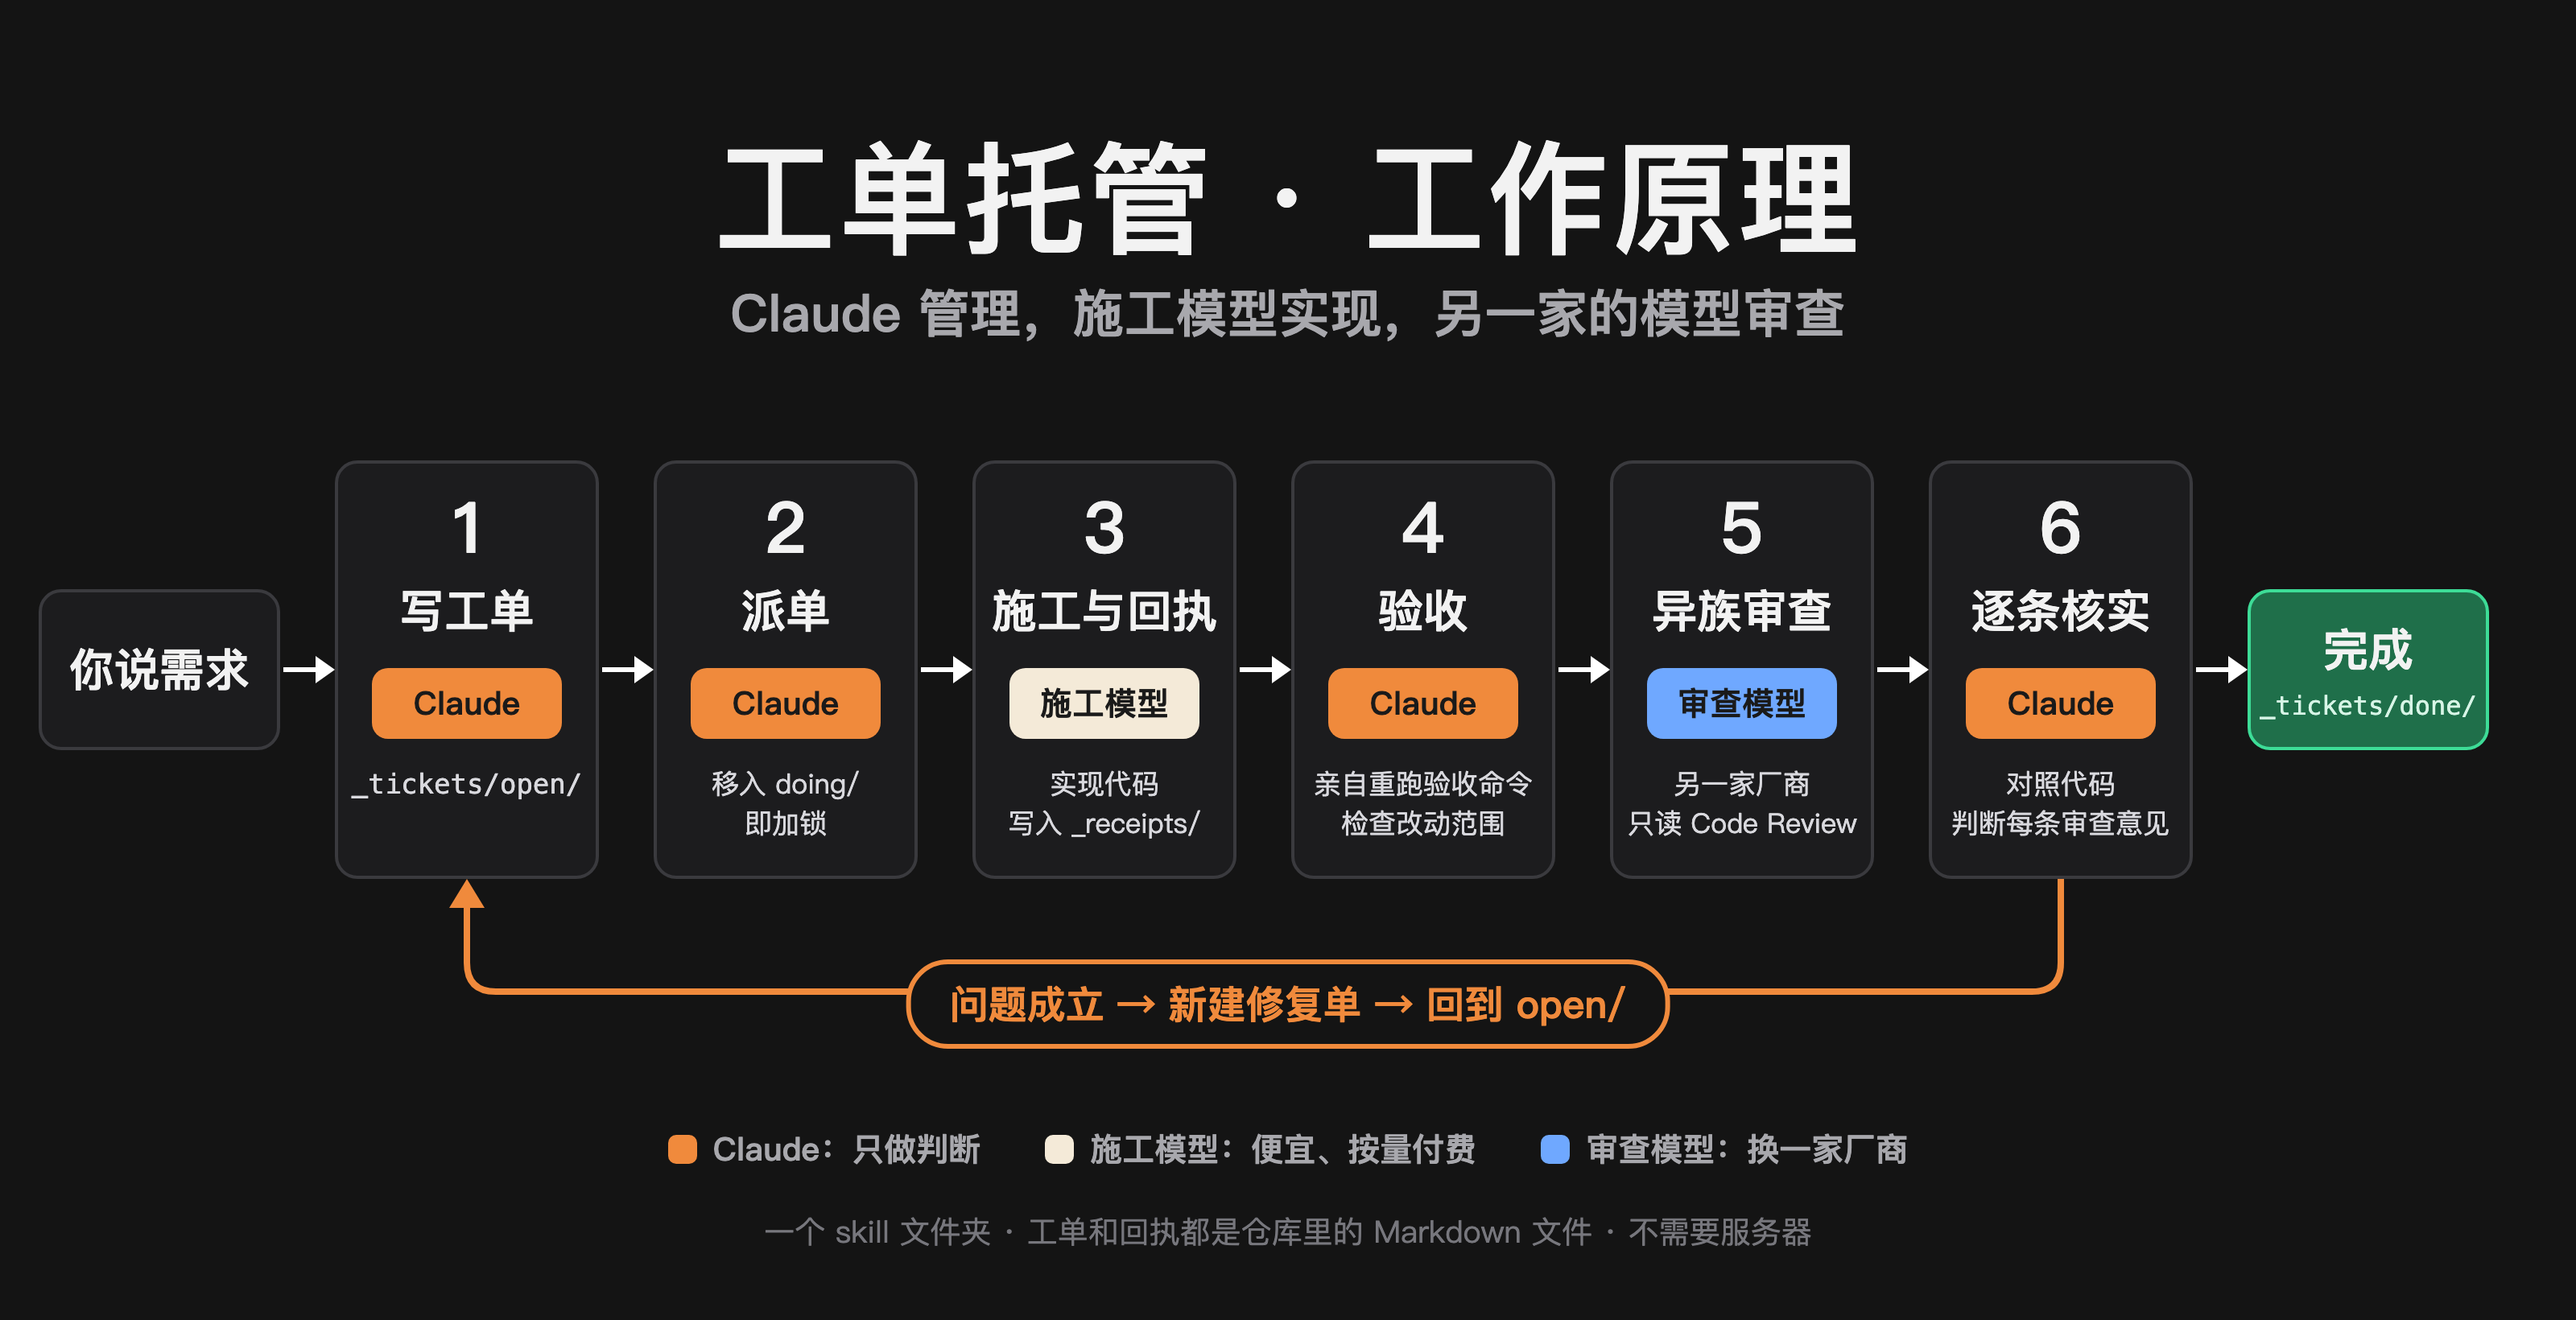
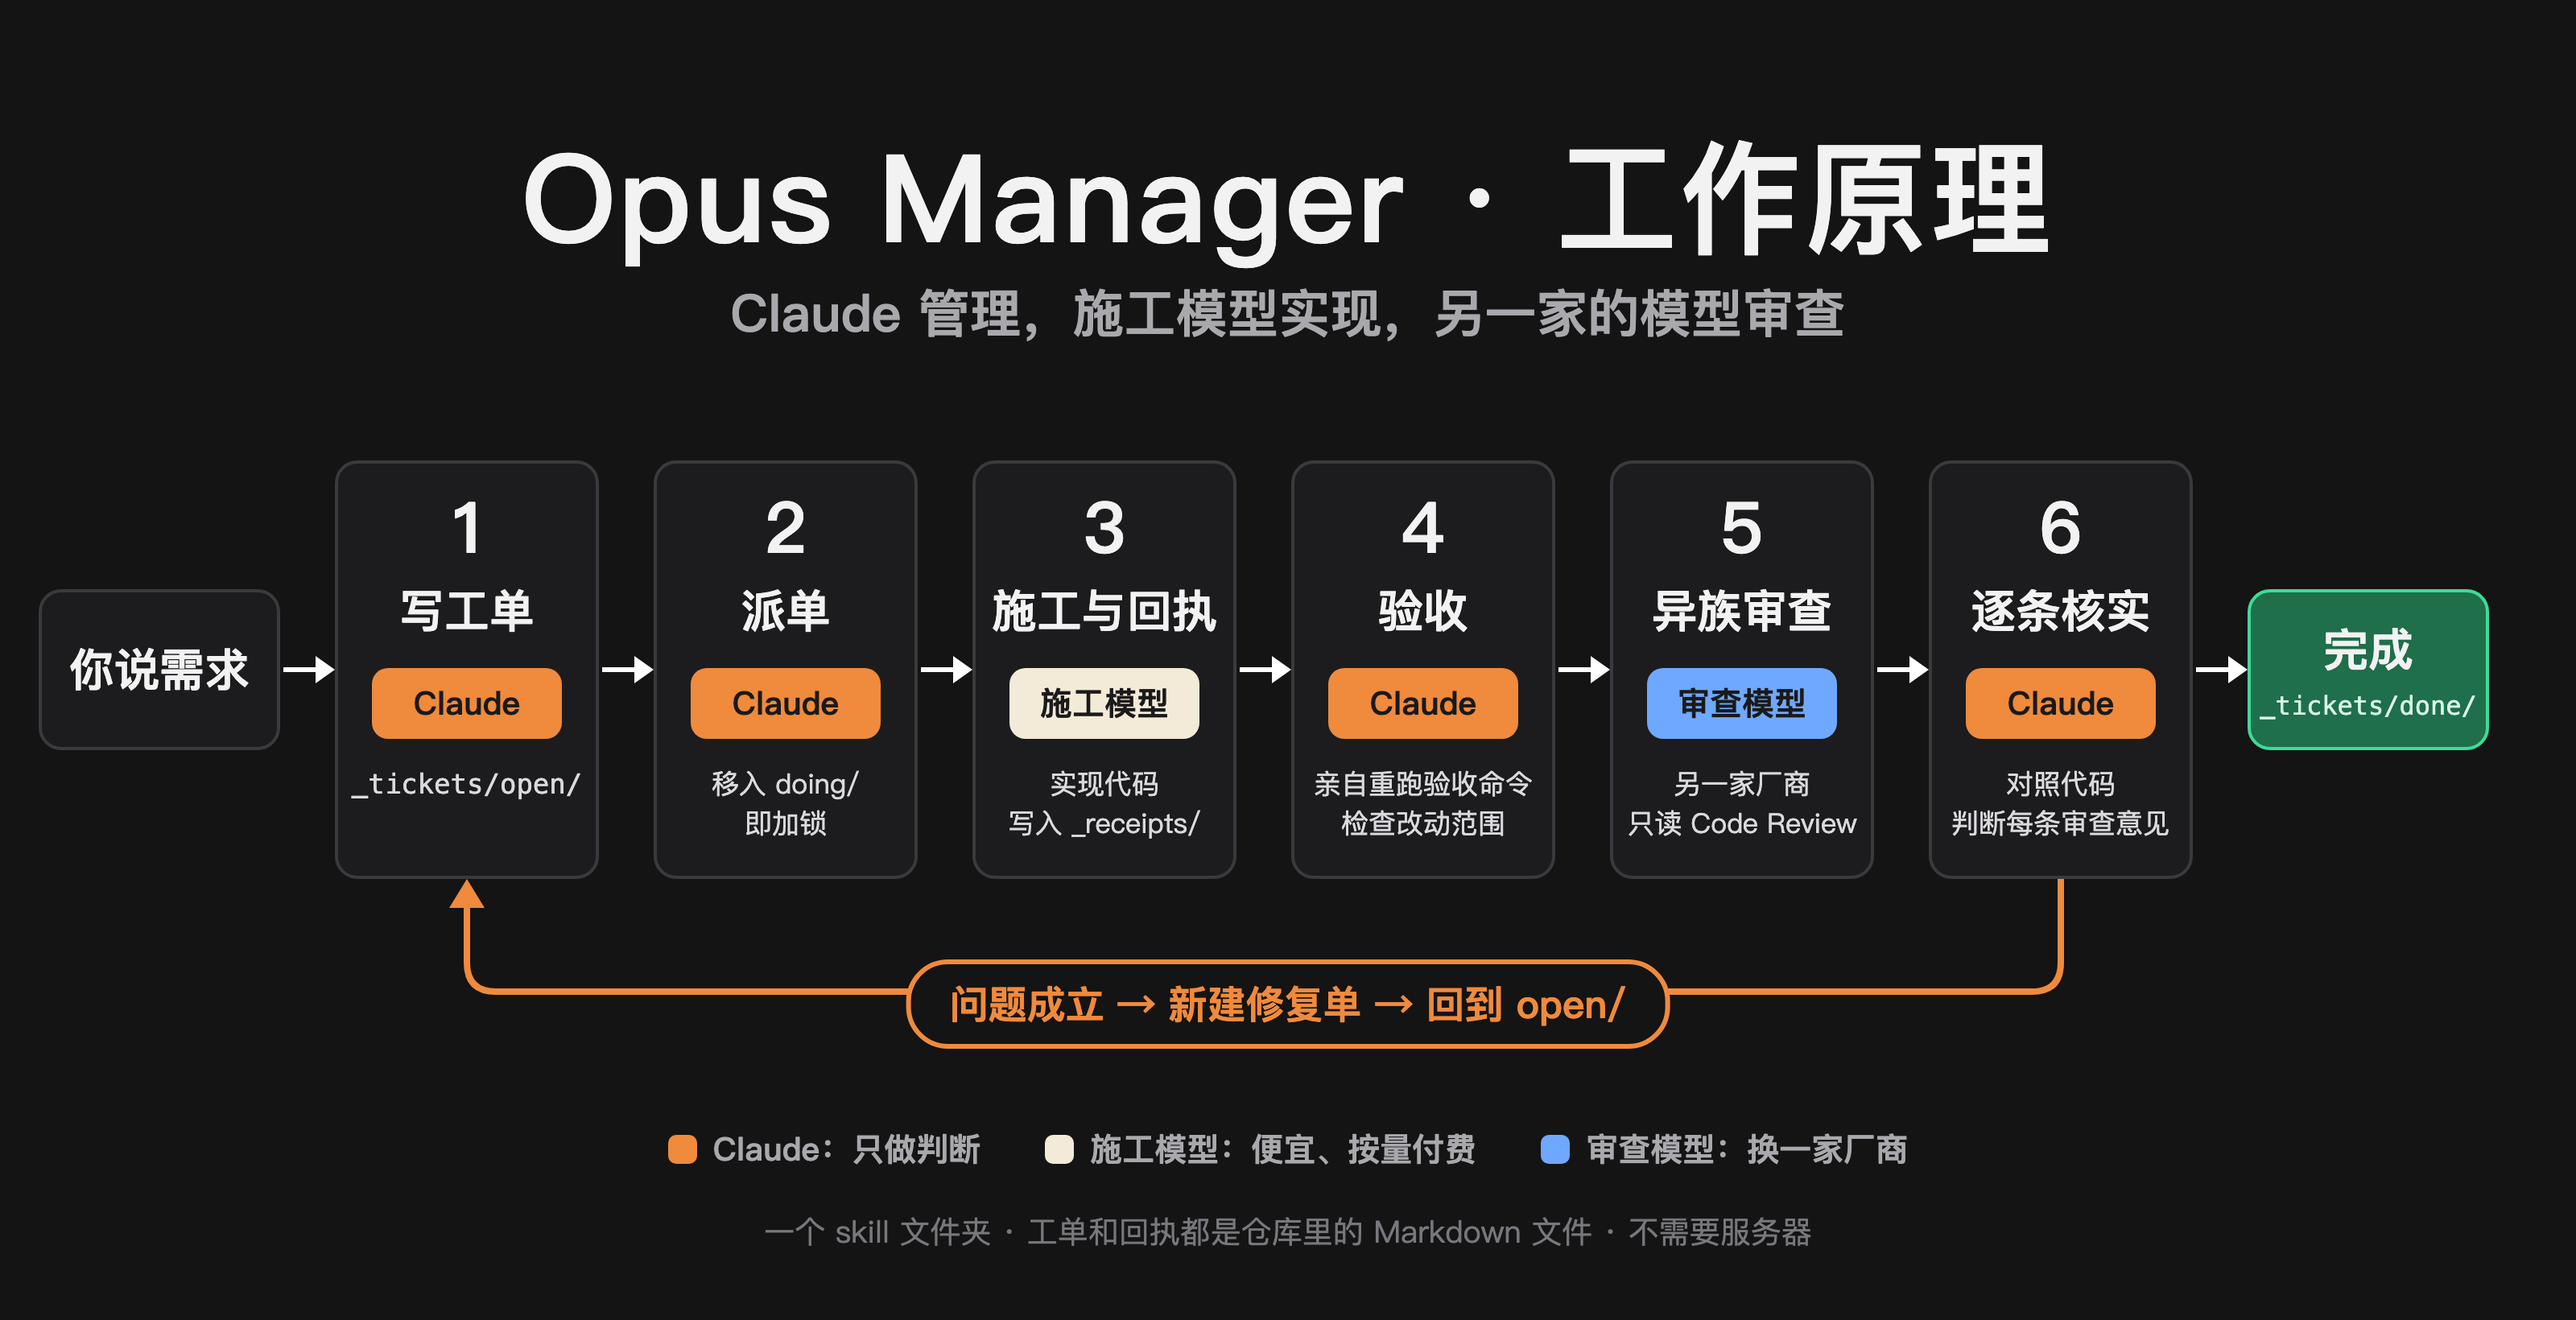
Rename to opus-manager (repo, skill folder, README, diagram title)

Changed region(s): [[0.1875, 0.0933, 0.8125, 0.2177]]

diff --git a/docs/architecture.html b/docs/architecture.html
@@ -62,13 +62,13 @@
 
 <script>
   const T = {
-    zh: { title:"工单托管 · 工作原理", sub:"Claude 管理，施工模型实现，另一家的模型审查",
+    zh: { title:"Opus Manager · 工作原理", sub:"Claude 管理，施工模型实现，另一家的模型审查",
       you:"你说需求", t1:"写工单", t2:"派单", d2:"移入 doing/\n即加锁", t3:"施工与回执", builder:"施工模型", d3:"实现代码\n写入 _receipts/",
       t4:"验收", d4:"亲自重跑验收命令\n检查改动范围", t5:"异族审查", reviewer:"审查模型", d5:"另一家厂商\n只读 Code Review",
       t6:"逐条核实", d6:"对照代码\n判断每条审查意见", done:"完成", loop:"问题成立 → 新建修复单 → 回到 open/",
       lg_c:"Claude：只做判断", lg_b:"施工模型：便宜、按量付费", lg_r:"审查模型：换一家厂商",
       foot:"一个 skill 文件夹 · 工单和回执都是仓库里的 Markdown 文件 · 不需要服务器" },
-    en: { title:"Ticket Dispatch · How it works", sub:"Claude manages, a builder model implements, another vendor's model reviews",
+    en: { title:"Opus Manager · How it works", sub:"Claude manages, a builder model implements, another vendor's model reviews",
       you:"You ask", t1:"Ticket", t2:"Dispatch", d2:"move to doing/\n= the lock", t3:"Build", builder:"Builder", d3:"writes the code\n+ a receipt",
       t4:"Accept", d4:"reruns checks\nreads the diff", t5:"Review", reviewer:"Reviewer", d5:"different vendor\nread-only review",
       t6:"Verify", d6:"checks findings\nagainst the code", done:"Done", loop:"Real issue → fix ticket → back to open/",

diff --git a/README.zh-CN.md b/README.zh-CN.md
@@ -1,4 +1,4 @@
-# 工单托管 · Ticket Dispatch
+# Opus Manager · 工单托管
 
 [English](README.md) · 中文
 
@@ -58,27 +58,27 @@ Claude（尤其是 Opus）最强的是判断：怎么拆任务、什么算做完
 
 最省事的办法：打开 Claude Code，对它说：
 
-> 帮我把 https://github.com/yanauto/ticket-oss 里的 `skill/zh/ticket-dispatch` 装成我的个人 skill。
+> 帮我把 https://github.com/yanauto/opus-manager 里的 `skill/zh/opus-manager` 装成我的个人 skill。
 
 也可以手动安装：
 
 **Mac / Linux**
 
 ```bash
-git clone https://github.com/yanauto/ticket-oss.git
+git clone https://github.com/yanauto/opus-manager.git
 mkdir -p ~/.claude/skills
-cp -R ticket-oss/skill/zh/ticket-dispatch ~/.claude/skills/
+cp -R opus-manager/skill/zh/opus-manager ~/.claude/skills/
 ```
 
 **Windows（PowerShell）**
 
 ```powershell
-git clone https://github.com/yanauto/ticket-oss.git
+git clone https://github.com/yanauto/opus-manager.git
 New-Item -ItemType Directory -Force "$env:USERPROFILE\.claude\skills" | Out-Null
-Copy-Item -Recurse ticket-oss\skill\zh\ticket-dispatch "$env:USERPROFILE\.claude\skills\"
+Copy-Item -Recurse opus-manager\skill\zh\opus-manager "$env:USERPROFILE\.claude\skills\"
 ```
 
-没装 git 的话，在 GitHub 页面点 Code → Download ZIP，解压后把 `skill/zh/ticket-dispatch` 这个文件夹复制到上面的位置。
+没装 git 的话，在 GitHub 页面点 Code → Download ZIP，解压后把 `skill/zh/opus-manager` 这个文件夹复制到上面的位置。
 
 装好后重新打开 Claude Code。
 

diff --git a/README.md b/README.md
@@ -1,4 +1,4 @@
-# Ticket Dispatch
+# Opus Manager
 
 English · [中文](README.zh-CN.md)
 
@@ -56,27 +56,27 @@ Claude does not make privacy, cost or permission decisions for you.
 
 Easiest: open Claude Code and say
 
-> Install `skill/en/ticket-dispatch` from https://github.com/yanauto/ticket-oss as my personal skill.
+> Install `skill/en/opus-manager` from https://github.com/yanauto/opus-manager as my personal skill.
 
 Or by hand:
 
 **macOS / Linux**
 
 ```bash
-git clone https://github.com/yanauto/ticket-oss.git
+git clone https://github.com/yanauto/opus-manager.git
 mkdir -p ~/.claude/skills
-cp -R ticket-oss/skill/en/ticket-dispatch ~/.claude/skills/
+cp -R opus-manager/skill/en/opus-manager ~/.claude/skills/
 ```
 
 **Windows (PowerShell)**
 
 ```powershell
-git clone https://github.com/yanauto/ticket-oss.git
+git clone https://github.com/yanauto/opus-manager.git
 New-Item -ItemType Directory -Force "$env:USERPROFILE\.claude\skills" | Out-Null
-Copy-Item -Recurse ticket-oss\skill\en\ticket-dispatch "$env:USERPROFILE\.claude\skills\"
+Copy-Item -Recurse opus-manager\skill\en\opus-manager "$env:USERPROFILE\.claude\skills\"
 ```
 
-No git? On GitHub click Code → Download ZIP and copy `skill/en/ticket-dispatch` to the same place.
+No git? On GitHub click Code → Download ZIP and copy `skill/en/opus-manager` to the same place.
 
 Restart Claude Code afterwards.
 

diff --git a/skill/en/opus-manager/SKILL.md b/skill/en/opus-manager/SKILL.md
@@ -1,5 +1,5 @@
 ---
-name: ticket-dispatch
+name: opus-manager
 description: Managed mode: you act as the manager and do not write the code yourself. Turn work into tickets, hand them to other AI command-line tools on the user's machine (cheaper models), then accept the result, get a second vendor to review it, and verify every finding. Use when the user says "use tickets", "manage this", "hand it off", or asks other models to do the work. On first use, find out which workers this machine has and settle the setup with the user.
 ---
 

diff --git a/skill/zh/opus-manager/SKILL.md b/skill/zh/opus-manager/SKILL.md
@@ -1,5 +1,5 @@
 ---
-name: ticket-dispatch
+name: opus-manager
 description: 托管模式：你当经理，不自己写代码。把活写成工单，派给用户电脑上的其他 AI 命令行工具（便宜模型）去做，你负责验收、换一家模型审查、逐条核实。用户说「走工单」「托管」「派出去」「让别的模型做」时使用；第一次使用时先摸清这台电脑有哪些工人，并和用户一起定好。
 ---
 
